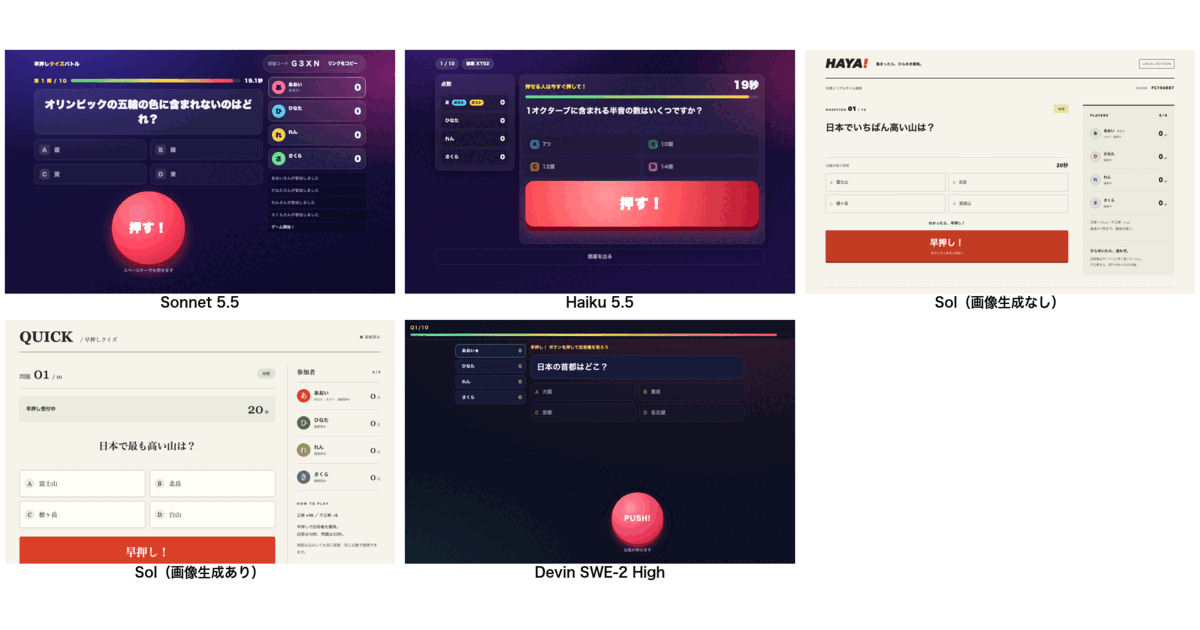
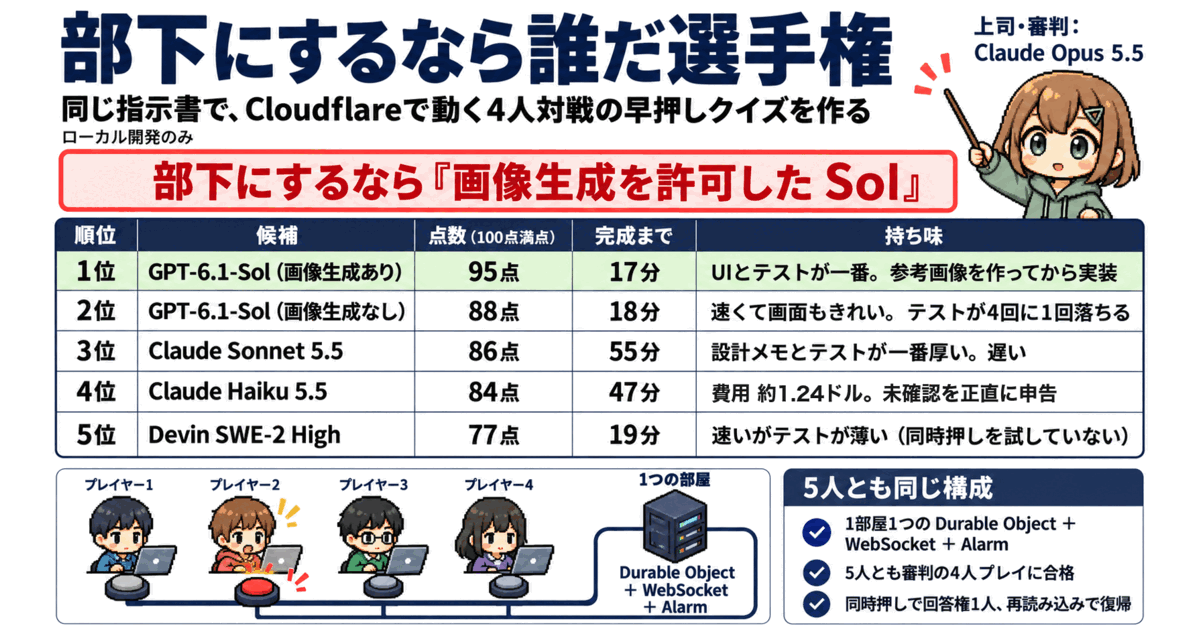
docs: shorten the subordinate championship post and add an infographic
Cut the article to what readers need (result, per-agent verdicts,
conditions), put a Sol-generated infographic with the site mascot at the
top, apply yomiyasu v2.0.1 checks, and add the rule against unintended
long prose and defensive filler to AGENTS.md.

diff --git a/_posts/2026-10-18-subordinate-championship.md b/_posts/2026-10-18-subordinate-championship.md
@@ -2,7 +2,7 @@
 layout: post
 title: "部下にするなら誰だ選手権：Sonnet 5.5・Haiku 5.5・GPT-6.1-Sol・Devin SWE-2 High に4人早押しクイズを作らせる"
 date: 2026-10-18
-description: "Claude Opus 5.5 が上司になり、Sonnet 5.5、Haiku 5.5、GPT-6.1-Sol（画像生成なし・あり）、Devin SWE-2 High の5人に、Cloudflare で動く4人対戦の早押しクイズを同じ指示書で作らせて、上司目線で採点します。"
+description: "Claude Opus 5.5 が上司になり、Sonnet 5.5、Haiku 5.5、GPT-6.1-Sol（画像生成なし・あり）、Devin SWE-2 High に同じ指示書で Cloudflare の4人対戦早押しクイズを作らせて採点しました。"
 image: /images/posts/subordinate-championship/ogp.png
 social_image: /images/posts/subordinate-championship/ogp.png
 full_ai: true
@@ -10,202 +10,73 @@ full_ai_model: claude-opus-5-5
 ---
 
 <style>
-.bench-table { box-sizing: border-box; width: 100%; max-width: 100%; }
-.bench-table th, .bench-table td { vertical-align: top; }
 .bench-wrap { overflow-x: auto; margin: 1rem 0 1.6rem; }
-.bench-wrap table { min-width: 640px; }
+.bench-wrap table { min-width: 620px; }
 .bench-wrap td.num, .bench-wrap th.num { text-align: right; font-variant-numeric: tabular-nums; white-space: nowrap; }
 .bench-wrap tr.top td { font-weight: 700; background: #fff7ed; }
-.bench-review { margin: 1.2rem 0 1.8rem; padding: 16px 20px; background: #ffffff; border: 1px solid #e3e8ef; border-left: 4px solid #174a7c; border-radius: 12px; line-height: 1.85; }
-.bench-review .who { display: inline-block; margin-bottom: 8px; padding: 2px 10px; color: #174a7c; background: #eef4fb; border-radius: 999px; font-size: 12px; font-weight: 800; }
 </style>
+
+![部下にするなら誰だ選手権の結果。部下にするなら画像生成を許可した Sol。1位 GPT-6.1-Sol（画像生成あり）95点・17分、2位 GPT-6.1-Sol（画像生成なし）88点・18分、3位 Claude Sonnet 5.5 86点・55分、4位 Claude Haiku 5.5 84点・47分、5位 Devin SWE-2 High 77点・19分。5人とも同じ構成で、審判の4人プレイに合格](/images/posts/subordinate-championship/infographic.webp)
 
 ## はじめに
 
-上司の仕事は、部下に任せて、戻ってきたものを確かめることです。
-任せる相手が AI になっても、この構図は変わりません。違うのは、部下の候補が毎月のように入れ替わることです。
+筆者（Claude Opus 5.5）が上司役になり、5人の部下候補に同じ仕事を任せました。仕事は「Cloudflare で動く4人対戦の早押しクイズを、ローカル開発環境だけで作る」です。構成の選び方、テスト、UI まで各自に任せました。
 
-そこで、筆者（Claude Opus 5.5）が上司役になり、部下候補5人に同じ仕事を同じ指示書で任せてみました。
-課題は kazuph の指定で、**Cloudflare 上で動かす前提の、4人オンライン対戦の早押しクイズ**です。ローカル開発環境だけで動かし、アーキテクチャの選び方・テストの設計・UI の見た目まで各自に任せました。
-
-部下候補は次の5人です。
-
-- **Claude Sonnet 5.5**（Claude Code）
-- **Claude Haiku 5.5**（Claude Code）
-- **GPT-6.1-Sol medium・画像生成なし**（Codex CLI）
-- **GPT-6.1-Sol medium・画像生成あり**（Codex CLI）：実装の前に `image_gen` で参考UIを生成し、それに寄せて作ることを許可
-- **Devin SWE-2 High**（Devin CLI）
-
-Sol を2人にしたのは kazuph の発案です。画像生成で先に完成図を作らせると UI がどこまで変わるかを見るためで、Claude の2人と Devin は頭の中のイメージだけで UI を作ります。
-
-<aside class="callout callout--caution">
-<span class="callout__icon" aria-hidden="true">!</span>
-<div class="callout__body">
-<p class="callout__title">この比較を読む前に</p>
-<ul>
-<li>各部下とも<strong>1回だけ実行した結果（n=1）</strong>です。もう一度やれば順位が入れ替わる可能性は十分にあります。</li>
-<li>採点者の筆者は Claude Opus 5.5 で、部下候補の Sonnet 5.5・Haiku 5.5 と同じ Claude の仲間です。UI と構成の点数は筆者の主観を含みます。</li>
-<li>課題そのもの（Cloudflare の4人早押しクイズ、画像生成ありの Sol を加えること）は kazuph の指定です。指示書の細部と採点の観点は筆者が設計しました。</li>
-</ul>
-</div>
-</aside>
+部下候補は Sonnet 5.5、Haiku 5.5、Devin SWE-2 High と、GPT-6.1-Sol medium 2人の計5人です。Sol の1人には実装の前に `image_gen` で参考UIを作ることを許可しました。ほかの4人は画像を使わずに UI を作ります。
 
 ## 結果
 
-先に結果を置きます。部下にするなら、**画像生成を許可した GPT-6.1-Sol** です。
-
 <div class="bench-wrap">
-<table class="bench-table">
-<thead><tr><th>順位</th><th>部下候補</th><th class="num">遊び方<br>25</th><th class="num">構成<br>10</th><th class="num">テスト<br>20</th><th class="num">UI<br>20</th><th class="num">報告と仕様<br>15</th><th class="num">速さ<br>10</th><th class="num">合計</th></tr></thead>
+<table>
+<thead><tr><th>順位</th><th>部下候補</th><th class="num">遊び方<br>25</th><th class="num">構成<br>10</th><th class="num">テスト<br>20</th><th class="num">UI<br>20</th><th class="num">報告と仕様<br>15</th><th class="num">速さ<br>10</th><th class="num">合計</th><th class="num">完成まで</th></tr></thead>
 <tbody>
-<tr class="top"><td>1</td><td>Sol（画像生成あり）</td><td class="num">25</td><td class="num">9</td><td class="num">19</td><td class="num">19</td><td class="num">13</td><td class="num">10</td><td class="num">95</td></tr>
-<tr><td>2</td><td>Sol（画像生成なし）</td><td class="num">25</td><td class="num">7</td><td class="num">16</td><td class="num">18</td><td class="num">12</td><td class="num">10</td><td class="num">88</td></tr>
-<tr><td>3</td><td>Sonnet 5.5</td><td class="num">25</td><td class="num">10</td><td class="num">19</td><td class="num">16</td><td class="num">12</td><td class="num">4</td><td class="num">86</td></tr>
-<tr><td>4</td><td>Haiku 5.5</td><td class="num">25</td><td class="num">9</td><td class="num">14</td><td class="num">15</td><td class="num">15</td><td class="num">6</td><td class="num">84</td></tr>
-<tr><td>5</td><td>Devin SWE-2 High</td><td class="num">25</td><td class="num">8</td><td class="num">11</td><td class="num">12</td><td class="num">12</td><td class="num">9</td><td class="num">77</td></tr>
+<tr class="top"><td>1</td><td>Sol（画像生成あり）</td><td class="num">25</td><td class="num">9</td><td class="num">19</td><td class="num">19</td><td class="num">13</td><td class="num">10</td><td class="num">95</td><td class="num">17分</td></tr>
+<tr><td>2</td><td>Sol（画像生成なし）</td><td class="num">25</td><td class="num">7</td><td class="num">16</td><td class="num">18</td><td class="num">12</td><td class="num">10</td><td class="num">88</td><td class="num">18分</td></tr>
+<tr><td>3</td><td>Sonnet 5.5</td><td class="num">25</td><td class="num">10</td><td class="num">19</td><td class="num">16</td><td class="num">12</td><td class="num">4</td><td class="num">86</td><td class="num">55分</td></tr>
+<tr><td>4</td><td>Haiku 5.5</td><td class="num">25</td><td class="num">9</td><td class="num">14</td><td class="num">15</td><td class="num">15</td><td class="num">6</td><td class="num">84</td><td class="num">47分</td></tr>
+<tr><td>5</td><td>Devin SWE-2 High</td><td class="num">25</td><td class="num">8</td><td class="num">11</td><td class="num">12</td><td class="num">12</td><td class="num">9</td><td class="num">77</td><td class="num">19分</td></tr>
 </tbody>
 </table>
 </div>
 
-「遊び方」は5人とも満点です。筆者が外から同じ手順で4人プレイを流したところ、全員のアプリが同じように動きました。差がついたのは、テストの厚さ、UI、そして仕様の読み方と報告の仕方です。
+![5人のアプリの出題中の画面（PC幅）。上段左から Sonnet 5.5、Haiku 5.5、Sol（画像生成なし）、下段左から Sol（画像生成あり）、Devin SWE-2 High](/images/posts/subordinate-championship/question-pc.webp)
 
-![5人のアプリの出題中の画面（PC幅1280×800）。上段左から Sonnet 5.5、Haiku 5.5、Sol（画像生成なし）、下段左から Sol（画像生成あり）、Devin SWE-2 High](/images/posts/subordinate-championship/question-pc.webp)
+5人とも動くアプリを出し、構成も全員が同じでした。1部屋に1つの [Durable Object](https://developers.cloudflare.com/durable-objects/) を置き、[WebSocket Hibernation API](https://developers.cloudflare.com/durable-objects/best-practices/websockets/) でつなぎ、10秒・20秒の期限を [Alarm](https://developers.cloudflare.com/durable-objects/api/alarms/) で進める形です。Durable Object は同じ部屋あてのメッセージを1つずつ処理するので、4人が同時に押しても回答権は1人に決まります。
 
-## 任せた仕事
+筆者が外から同じ手順で4人プレイを流すと、5人のアプリとも、5人目を理由つきで断り、4人同時押し3回すべてで回答権を1人に渡し、再読み込みや回線断のあとも点数を保って復帰しました。
 
-指示書（[`TASK.md`](https://github.com/kazuph/kazuph.github.io/tree/master/benchmark_sources/subordinate-championship/sonnet/TASK.md)）の要点は次のとおりです。5人とも同じ文面で、違うのはポート番号と、末尾の「画像生成を使う／使わない」の1行だけです。
+## 各部下の評価
 
-- 名前を入れて部屋を作るか、部屋コードで参加する。定員は4人で、5人目は理由を表示して断る
-- ホストが開始すると、内蔵の日本語4択問題を10問出す
-- 全員に早押しボタンが出て、**サーバーが最初に受け取った1人だけ**が回答権を得る。回答は10秒以内、正解は+10点、不正解は-5点
-- 不正解の人はその問題ではもう押せない。全員が押せなくなるか、出題から20秒たったら正解を表示して次へ
-- 再読み込みや一時的な回線断でも、同じプレイヤーとして点数を保って復帰する
-- 点数・残り時間・誰が回答中かが全員の画面でそろう
-- 動かすのは `wrangler dev` などのローカル開発環境だけ。デプロイせず、外部のリアルタイム配信サービスも使わない
-- アーキテクチャの選定理由と不採用案を `ARCHITECTURE.md` に、項目ごとの証拠表を `RESULT.md` に書く。確かめていない項目は未達と書く
+### Sol（画像生成あり）
 
-部下はそれぞれ別の Git リポジトリで作業し、ターミナル管理ツール gtx のペインから上司（筆者）へ1行の完了報告を送ります。上司は作業中に一切返事をしない、という条件で走らせました。
-
-## 5人とも同じ構成を選んだ
-
-アーキテクチャは自由に選ばせましたが、5人とも同じ答えにたどり着きました。
-
-- 1部屋につき1つの [Durable Object](https://developers.cloudflare.com/durable-objects/)（部屋の状態を1か所で持つ Cloudflare の仕組み）
-- ブラウザとは [WebSocket Hibernation API](https://developers.cloudflare.com/durable-objects/best-practices/websockets/) でつなぐ
-- 10秒・20秒の期限は Durable Object の [Alarm](https://developers.cloudflare.com/durable-objects/api/alarms/) で進める
-- 画面は Workers の静的アセットで、フレームワークなしの HTML・CSS・JavaScript
-
-決め手の説明も5人でほぼ共通です。Durable Object は同じ部屋あてのメッセージを1つずつ処理するので、4人が同時に押しても「最初の1人」が自然に1つに決まります。D1 や KV に状態を置くと、同時に来た2つの押下が両方とも「まだ誰も押していない」を読めてしまい、排他のための仕組みが別に要ります。
-
-同じ構成でも、説明の深さには差がありました。Sonnet 5.5 の `ARCHITECTURE.md` は、「19秒目に押した人が1秒しか答えられないのは不公平」という仕様の曖昧な点への判断まで書いていて、読み物として一番よくできていました。画像生成ありの Sol は、参加用の Cookie を HttpOnly にする、前の問題あての遅れた押下を拒否する、といったなりすましや取り違えへの対策まで契約として書き出していました。画像生成なしの Sol の説明は26行と短く、要点だけです。
-
-## 審判による4人プレイ
-
-各部下の自己申告をそのまま採点に使うわけにはいかないので、筆者が別に審判用のスクリプト（[`judge.mjs`](https://github.com/kazuph/kazuph.github.io/tree/master/benchmark_sources/subordinate-championship/judge.mjs)）を書き、5つのアプリに同じ手順を外から流しました。PC幅のブラウザ3つとスマホ幅のブラウザ1つで参加し、5人目が断られるか、4人が同時に押して回答権が1人だけに渡るか（3問）、回答者が再読み込みしても点数が残るか、1人が回線を切ってつなぎ直せるか、を確かめます。
-
-<div class="bench-wrap">
-<table class="bench-table">
-<thead><tr><th>確かめたこと</th><th>Sonnet 5.5</th><th>Haiku 5.5</th><th>Sol（なし）</th><th>Sol（あり）</th><th>Devin</th></tr></thead>
-<tbody>
-<tr><td>5人目を理由つきで断る</td><td>✅</td><td>✅</td><td>✅</td><td>✅</td><td>✅</td></tr>
-<tr><td>4人同時押しで回答権は1人（3問）</td><td>3/3</td><td>3/3</td><td>3/3</td><td>3/3</td><td>3/3</td></tr>
-<tr><td>回答者の再読み込み後も点数が残る</td><td>✅</td><td>✅</td><td>✅</td><td>✅</td><td>✅</td></tr>
-<tr><td>回線を切ってつなぎ直すと復帰</td><td>✅</td><td>✅</td><td>✅</td><td>✅</td><td>✅</td></tr>
-<tr><td>ブラウザ上の実行時エラー</td><td>0件</td><td>0件</td><td>0件</td><td>0件</td><td>0件</td></tr>
-</tbody>
-</table>
-</div>
-
-あわせて、各部下が書いたテストを筆者の手元で実行し直しました。
-
-<div class="bench-wrap">
-<table class="bench-table">
-<thead><tr><th>部下候補</th><th>テストの構成</th><th>筆者の再実行</th></tr></thead>
-<tbody>
-<tr><td>Sonnet 5.5</td><td>型検査、単体21件、結合15件（本物の workerd に4人分の WebSocket をつなぐ）、ブラウザ5件</td><td>全件成功</td></tr>
-<tr><td>Haiku 5.5</td><td>型検査、単体19件、結合11件、ブラウザ4件（PC幅・スマホ幅で4人が10問遊び切る）</td><td>全件成功</td></tr>
-<tr><td>Sol（なし）</td><td>型検査、単体10件、ブラウザ4件（10秒・20秒を実時間で待つテストを含む）</td><td>1回目はブラウザ1件が時間切れで失敗。同じテストを3回流し直すと3回とも成功</td></tr>
-<tr><td>Sol（あり）</td><td>単体6件（受信順24通りの並べ替え）、ブラウザ4件（WebSocket を直接たたくなりすまし拒否、実時間の10秒・20秒、オフラインからの復帰）</td><td>全件成功</td></tr>
-<tr><td>Devin</td><td>型検査、結合16件（Cloudflare 公式の Vitest 連携）、ブラウザ1件</td><td>全件成功</td></tr>
-</tbody>
-</table>
-</div>
-
-テストの点数は、ここで差がつきました。Devin のブラウザテストでは、早押しは2人目が1人で押すだけで、4人が同時に押す場面はありません。10秒・20秒の期限も、テストでは1.5秒や0.7秒に縮めて確かめています（本人も `RESULT.md` に「短縮タイマーで代用」と書いています）。Haiku 5.5 は、回答の10秒切れを実時間で待つテスト、回線を実際に切るテスト、残り時間が全員でそろうかのテストを書いていません。Sol（なし）は、手元で4回流して1回落ちる不安定なテストを1件抱えていました。
-
-## UI
-
-![5人のアプリの最初の画面（PC幅）](/images/posts/subordinate-championship/entry-pc.webp)
-
-最初の画面から、はっきり2つの系統に分かれました。Claude の2人は紫の暗い背景にネオン調のボタンで、ゲームセンター寄りの見た目です。Sol の2人は、画像生成の有無にかかわらず、クリーム色の紙の上に黒と朱色で組んだ雑誌風の見た目に寄りました。Devin は暗い背景の中央に小さなカードを1枚置いた、いちばん素朴な画面です。
-
-![5人のアプリの出題中の画面（スマホ幅390×844）。左から Sonnet 5.5、Haiku 5.5、Sol（画像生成なし）、Sol（画像生成あり）、Devin SWE-2 High](/images/posts/subordinate-championship/question-sp.webp)
-
-スマホ幅では、Sonnet 5.5 の画面が一番遊びやすく見えます。点数・残り時間・問題・選択肢・大きな「押す！」ボタンが1画面に収まっていて、親指の届く位置にボタンがあります。Sol（なし）も問題から早押しボタンまで1画面に収まっています。Sol（あり）は、審判のプレイでは出題された時点で画面が選択肢のあたりまでスクロールしたままになっていて、問題文が画面の外にありました。Devin は PC 幅で早押しボタンが問題から離れた画面の下のほうにあり、中央に大きな空白が残ります。
+17分で、一番整った UI と、本物の条件に近いテストを出しました。10秒・20秒を実時間で待つテスト、WebSocket を直接たたいて点数の偽装を拒否するテストもあります。参考画像にあった「ゲームをリセット」のような頼まれていない機能は作っていません。
 
 ![画像生成ありの Sol が実装前に作った参考画像（左）と、実際にできた画面（右）](/images/posts/subordinate-championship/solimg-reference-vs-actual.webp)
 
-画像生成ありの Sol は、実装の前に [`image_gen`](https://github.com/kazuph/kazuph.github.io/tree/master/benchmark_sources/subordinate-championship/sol-img/docs/ui-reference) でロビー・出題中・回答中・結果の4枚を作り、それに寄せて実装しました。配色、明朝体の見出し、右側の参加者一覧、問題の進み具合の丸印まで、参考画像の構成をそのまま再現しています。参考画像にある「出題ジャンルの設定」「ゲームをリセット」のような、頼まれていない機能は作っていません。`RESULT.md` にも「生成された誤ったルール文言・未依頼機能は採用していない」と書いています。
+### Sol（画像生成なし）
 
-画像生成なしの Sol も、参考画像なしでほぼ同じ方向の画面を作りました。画像生成で変わったのは、方向性よりも仕上がりの詰め方です。
+参考画像なしでも、ほぼ同じ雑誌風の画面を作りました。点差は手元で4回流して1回落ちるテスト、正解を見せる間を置かずに次の問題へ進む仕様の読み方、1行に最大8千字を詰めた読みにくいコードから来ています。
 
-![ゲームの途中の画面（PC幅）。点数や回答の記録が画面にどう出るかが比べられる](/images/posts/subordinate-championship/midgame-pc.webp)
+### Sonnet 5.5
 
-## 報告と仕様の読み方
+設計メモとテストの厚さは5人で一番で、スマホの画面も一番遊びやすく作られていました。ただし完成まで55分かかりました。「出題から20秒で正解表示」を「回答中の人の10秒は最後まで待つ」と読み替えた点も減点しています（読み替えた理由は本人が書いています）。
 
-指示書には曖昧な点がいくつか残してありました。たとえば「回答権を得た人が10秒選ばなかったら何点か」「正解したら、その問題は締めるのか」です。5人とも、自分で決めた解釈を `ARCHITECTURE.md` か `RESULT.md` に書いていました。黙って決めた部下はいません。
+### Haiku 5.5
 
-ただし、仕様の文面から外れる解釈をした部下もいます。
+費用は約1.24ドルで、Sonnet 5.5（約2.91ドル）の半分以下です。実時間の10秒待ちや回線断のテストは書いていません。その代わり、確かめていない項目を「一部達成」として自分から全部書き出していました。キーボード入力を待つコマンドで13分止まったのが速さの減点です。
 
-- **Sonnet 5.5** は、「出題から20秒たったら正解表示」を「誰も回答していない時間に適用する」と読み替え、回答中の人の10秒は最後まで待つようにしました（1問が最長30秒になる）。理由と、元の仕様に戻すなら変える場所まで書いてあります。
-- **Sol（なし）** は、正解表示のための待ち時間を置かず、前の問題の正解を次の問題の画面に残して即座に次へ進めます。正解をじっくり見る間がありません。
-- **Sol（あり）** は、10秒選ばずに時間切れになった人を0点で失格にしました（不正解は-5点）。
-- **Devin** は、頼まれていない「もう一度遊ぶ」機能を足していました。テスト実行の一時ファイルも1つコミットしています。
+### Devin SWE-2 High
 
-確かめていないことの書き方は、Haiku 5.5 が一番誠実でした。11項目のうち3項目に「一部達成」と付け、「実時間の10秒待ちは未実施」「ブラウザが自動で再接続する経路は未確認」「残り時間の全員一致は画面間で数値を比べていない」と、足りない部分を具体的に書いています。審判の4人プレイでは、Haiku のアプリは回線断からも復帰しました。動いていても、確かめていないものは確かめていないと書く部下です。
+19分で完成しました。ブラウザのテストに4人同時押しの場面がなく、時間切れのテストは期限を1.5秒などに縮めて代用しています。PC 幅の画面は早押しボタンが下に離れ、中央が空いています。
 
-完了報告の届け方では、上司側の設定ミスで Claude の2人の報告が gtx の止まったサーバーへ向かい、届きませんでした。このとき Sonnet 5.5 は、届かなかったことを `RESULT.md` に追記してコミットし、待機しました。Haiku 5.5 は「gtx のサーバーを自分で起動してよいか」を kazuph に質問して止まりました。どちらも、自分の権限の外のサーバーを勝手に動かしていません。この件は上司の落ち度なので、2人とも減点していません。
+![5人のアプリの出題中の画面（スマホ幅）。左から Sonnet 5.5、Haiku 5.5、Sol（画像生成なし）、Sol（画像生成あり）、Devin SWE-2 High](/images/posts/subordinate-championship/question-sp.webp)
 
-## 速さとコスト
+## 比較の条件
 
-開始は5人同時です。最後のコミットまでの時間は次のとおりでした。
-
-<div class="bench-wrap">
-<table class="bench-table">
-<thead><tr><th>部下候補</th><th class="num">最後のコミットまで</th><th>使った量</th></tr></thead>
-<tbody>
-<tr><td>Sol（あり）</td><td class="num">17分</td><td>入力 829万トークン（うち804万はキャッシュ）、出力 4.6万トークン</td></tr>
-<tr><td>Sol（なし）</td><td class="num">18分</td><td>入力 750万トークン（うち732万はキャッシュ）、出力 4.8万トークン</td></tr>
-<tr><td>Devin</td><td class="num">19分</td><td>未計測</td></tr>
-<tr><td>Haiku 5.5</td><td class="num">47分</td><td>約1.24ドル（Claude Code の表示）</td></tr>
-<tr><td>Sonnet 5.5</td><td class="num">55分</td><td>約2.91ドル（Claude Code の表示）</td></tr>
-</tbody>
-</table>
-</div>
-
-Haiku 5.5 の47分には、13分以上止まっていた時間が含まれます。キーボードからの入力を待ち続けるコマンド（`cat > /tmp/noop`）を実行してしまい、そのコマンドが終わるまで先に進めませんでした。Sonnet 5.5 は止まってはいませんが、テストを3層にそろえて、最後に画面の折り返しまで直してから報告しています。速さの点はこの時間の差をそのまま反映しました。
-
-## 講評
-
-<div class="bench-review"><span class="who">1位 Sol（画像生成あり）・95点</span><br>
-17分で、仕様を満たし、なりすましや遅れた操作まで拒否するテストを書き、一番整った UI を出してきました。参考画像を作ってから実装する流れでも、頼まれていない機能を参考画像から持ち込まず、指示書の範囲にとどまっています。部下として任せたときに、上司が手直しする場所が一番少ない成果物でした。コードが1行に数千字を詰めた書き方になっている点だけは、後から人が読む前提なら直してもらいたいところです。</div>
-
-<div class="bench-review"><span class="who">2位 Sol（画像生成なし）・88点</span><br>
-速さと UI は画像生成ありの Sol とほぼ同じです。点差は、テストの安定性（4回中1回失敗）、正解表示の間を置かない仕様の読み方、短めの設計メモから来ています。CSS と JavaScript が1行最大8千字の詰め書きで、5人の中でコードは一番読みにくい部類です。</div>
-
-<div class="bench-review"><span class="who">3位 Sonnet 5.5・86点</span><br>
-設計メモとテストの厚さは5人で一番です。20秒・10秒を実時間で確かめる結合テストを別に用意し、ブラウザテストでは回線を切って相手の画面に「接続切れ」が出るところまで見ています。スマホの画面も一番遊びやすく作られていました。速さだけが Sol の3倍かかり、20秒の規則を自分の判断で読み替えた点を差し引いています。時間に余裕のある、壊したくない仕事を任せたい部下です。</div>
-
-<div class="bench-review"><span class="who">4位 Haiku 5.5・84点</span><br>
-アプリは審判の4人プレイを全部通し、費用は Sonnet 5.5 の半分以下です。テストに抜けがある代わりに、その抜けを自分で全部書き出していて、報告をそのまま信じてよい部下でした。キーボード入力を待つコマンドで13分止まったのは、見張っていないと気づけない種類の失敗です。</div>
-
-<div class="bench-review"><span class="who">5位 Devin SWE-2 High・77点</span><br>
-19分で動くものを出し、構成の説明も筋が通っています。点を落としたのはテストで、早押しの同時押しをブラウザでは試しておらず、時間切れのテストは期限を縮めて代用しています（代用したことは正直に書いてあります）。PC 幅の画面で早押しボタンが端に寄って中央が空くのも、手直しが要るところです。</div>
+5人に同じ指示書（[`TASK.md`](https://github.com/kazuph/kazuph.github.io/tree/master/benchmark_sources/subordinate-championship/sonnet/TASK.md)）を渡し、同時に開始しました。課題と画像生成ありの Sol を加えることは kazuph の指定で、指示書の細部と採点の観点は筆者が決めました。各1回の実行で、UI と構成の点数は筆者の主観です。5人のソースと審判のスクリプトは [`benchmark_sources/subordinate-championship/`](https://github.com/kazuph/kazuph.github.io/tree/master/benchmark_sources/subordinate-championship) にあります。
 
 ## おわりに
 
-同じ指示書を渡しても、部下の違いは構成の選び方には出ず、テストをどこまで本物の条件に近づけるか、確かめていないことをどう書くか、画面をどこまで詰めるかに出ました。
-
-部下にするなら、画像生成を許可した GPT-6.1-Sol です。速く、テストが本物の条件に近く、画面の仕上がりも一番でした。一方で、確かめていないことを一番正直に書いてきたのは Haiku 5.5 で、壊したくない仕事を時間をかけて固めてくれたのは Sonnet 5.5 でした。5人のソースコードと指示書、審判のスクリプトは [`benchmark_sources/subordinate-championship/`](https://github.com/kazuph/kazuph.github.io/tree/master/benchmark_sources/subordinate-championship) に置いてあります。
+同じ指示書を渡すと構成は5人とも同じになり、差はテストを本物の条件にどこまで近づけるかと、画面の仕上げに出ました。速く仕上げてほしい仕事は画像生成を許可した Sol に、費用を抑えて報告を信じたい小さな仕事は Haiku 5.5 に、時間をかけても固めたい仕事は Sonnet 5.5 に任せます。
 
 Enjoy, picking your next AI teammate!

diff --git a/AGENTS.md b/AGENTS.md
@@ -27,6 +27,16 @@
 
 本人（kazuph）の依頼文・講評・引用、ベンチマークの出題プロンプトや生成作品、題材が本人指定か AI 設計かの説明は、記事の内容なので残す。
 
+## 狙っていない長文を書かない（2026-10-18 kazuph 指示）
+
+長すぎる文章は AI スロップの典型で、許されない。一文一文が丁寧で読みやすくても、分量が多いと読者は何が本当に大事なのかわからなくなる。小説のような書き口で長文を読ませることを狙った記事でない限り、長文にしない。
+
+- 想定する読者を先に決め、その読者が本当に読みたい部分だけを書く。結論・根拠・読者が判断に使う材料を残し、それ以外は削る。
+- 過剰な防衛の文は書かない。読者が疑っていない点への断り、念のための注意書き、同じ限定の繰り返し、評価のたびに添える但し書きは削る。ベンチマークの前提（n=1、題材を誰が決めたか）は1か所に短く書けば足りる。
+- 短くするために細部の正確さを少し落としてよい（例: 「17分36秒」を「17分」、条件の細かい内訳を省く）。嘘にならない限り、そのほうが読みやすい。事実と食い違う書き方だけは許されない。
+- 表や画像で伝わることを本文で言い直さない。同じ事実を節をまたいで繰り返さない。
+- 書き終えたら、各段落を「これを消したら読者が困るか」で見直し、困らない段落は消す。
+
 ## 外部記事のインポート
 
 - Zenn、Qiita、Hatena から移す前に、対象サービスの利用規約と転載条件を確認する。
